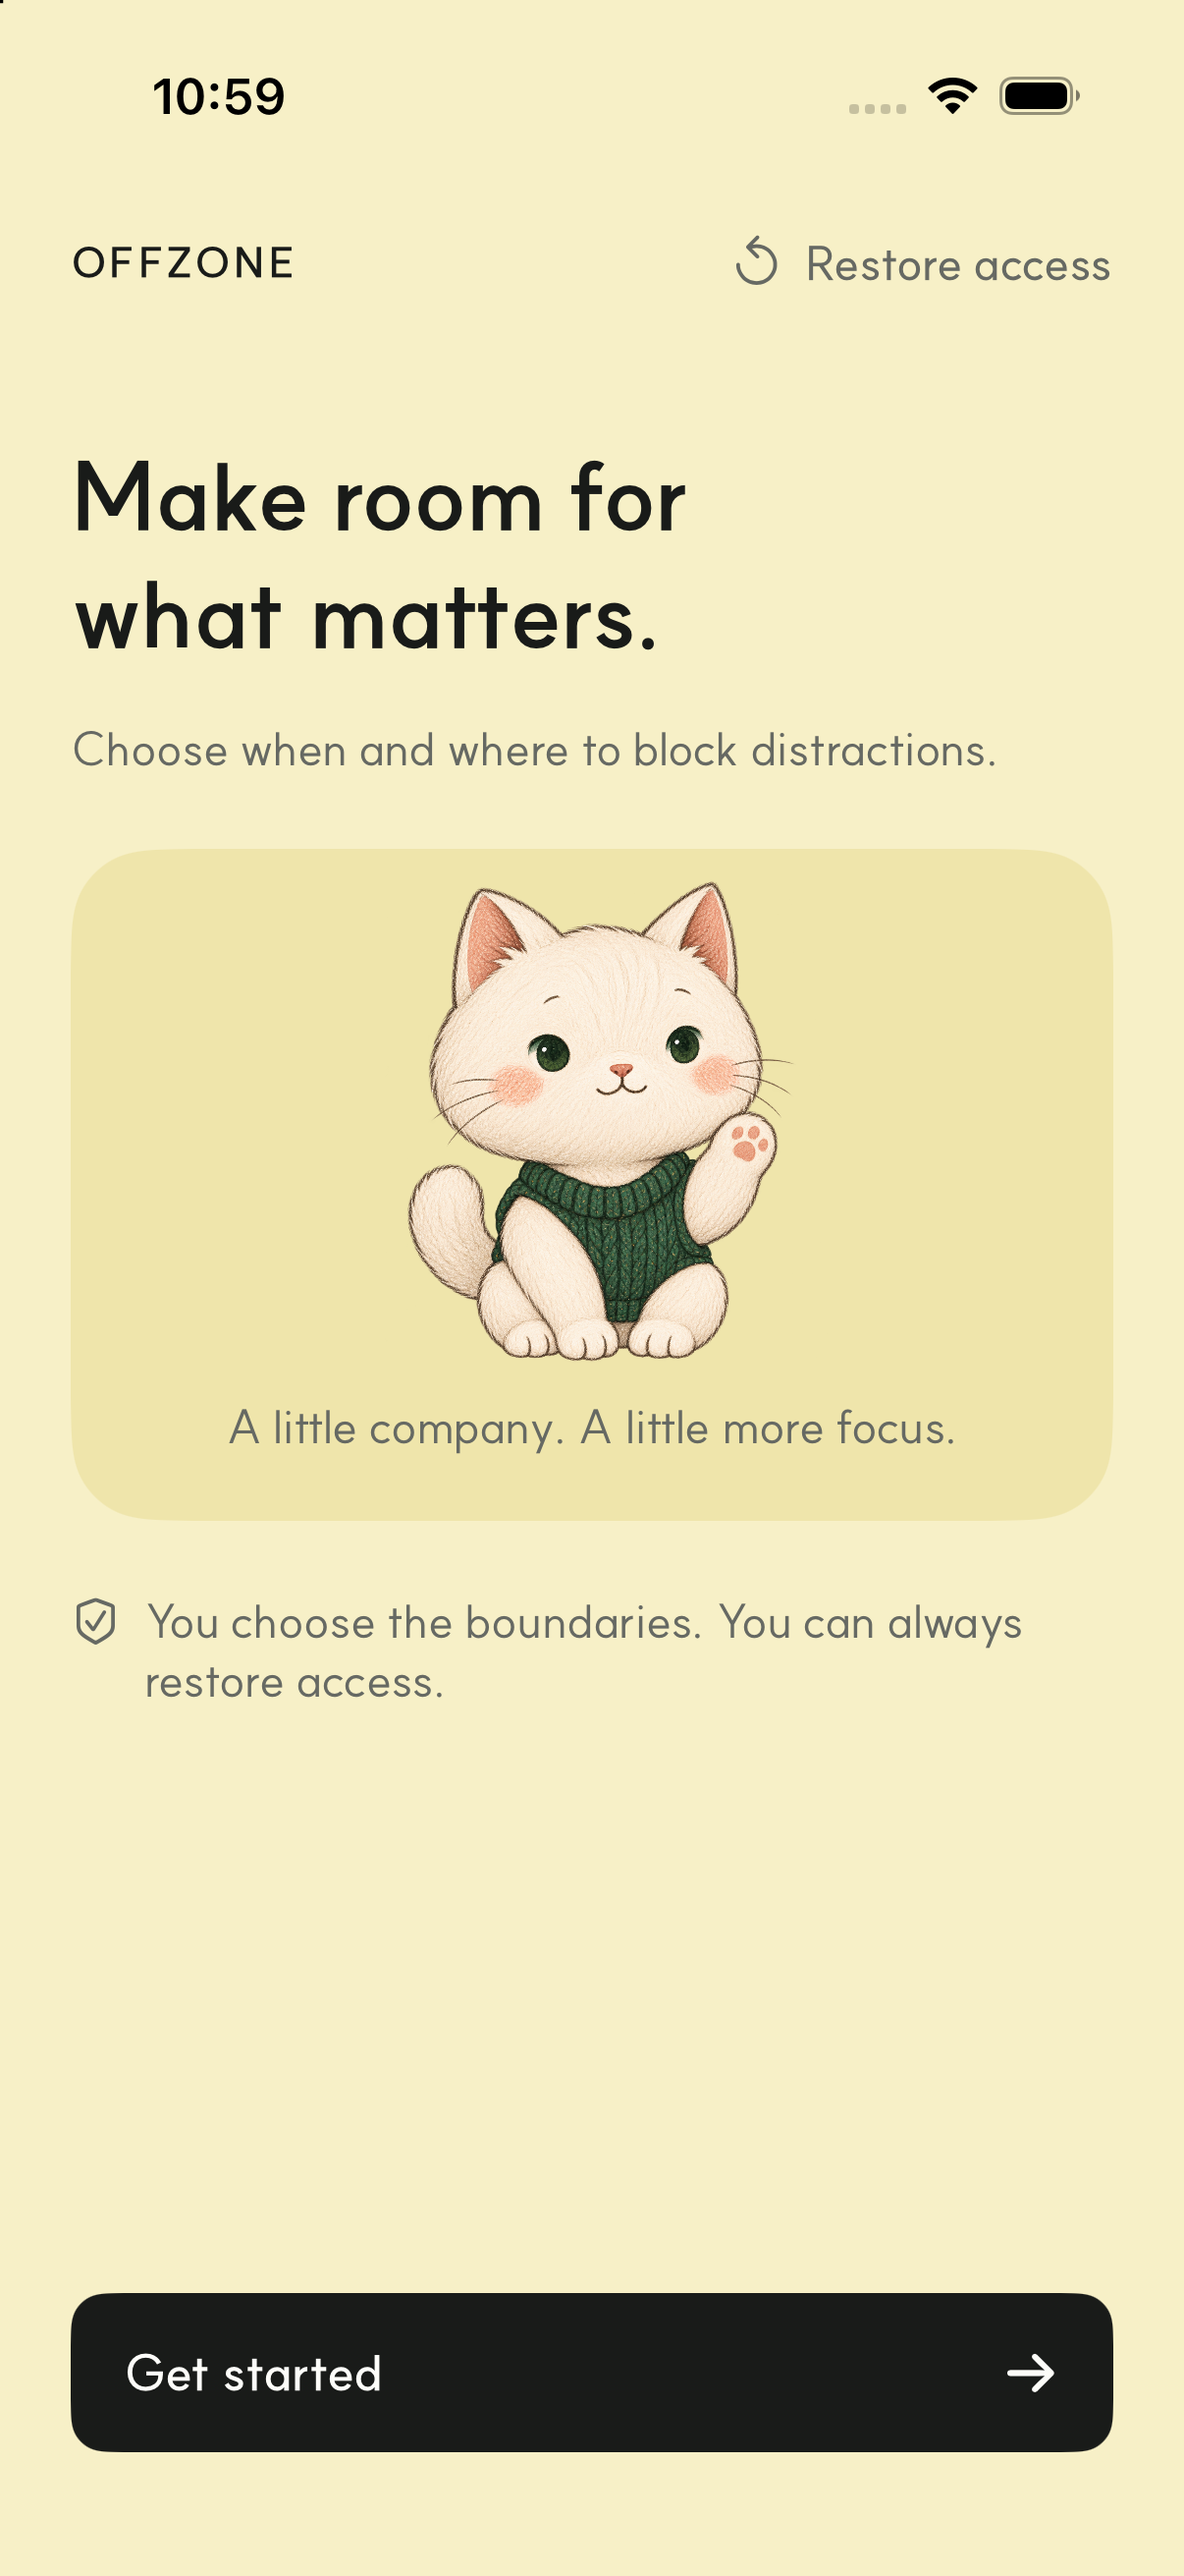
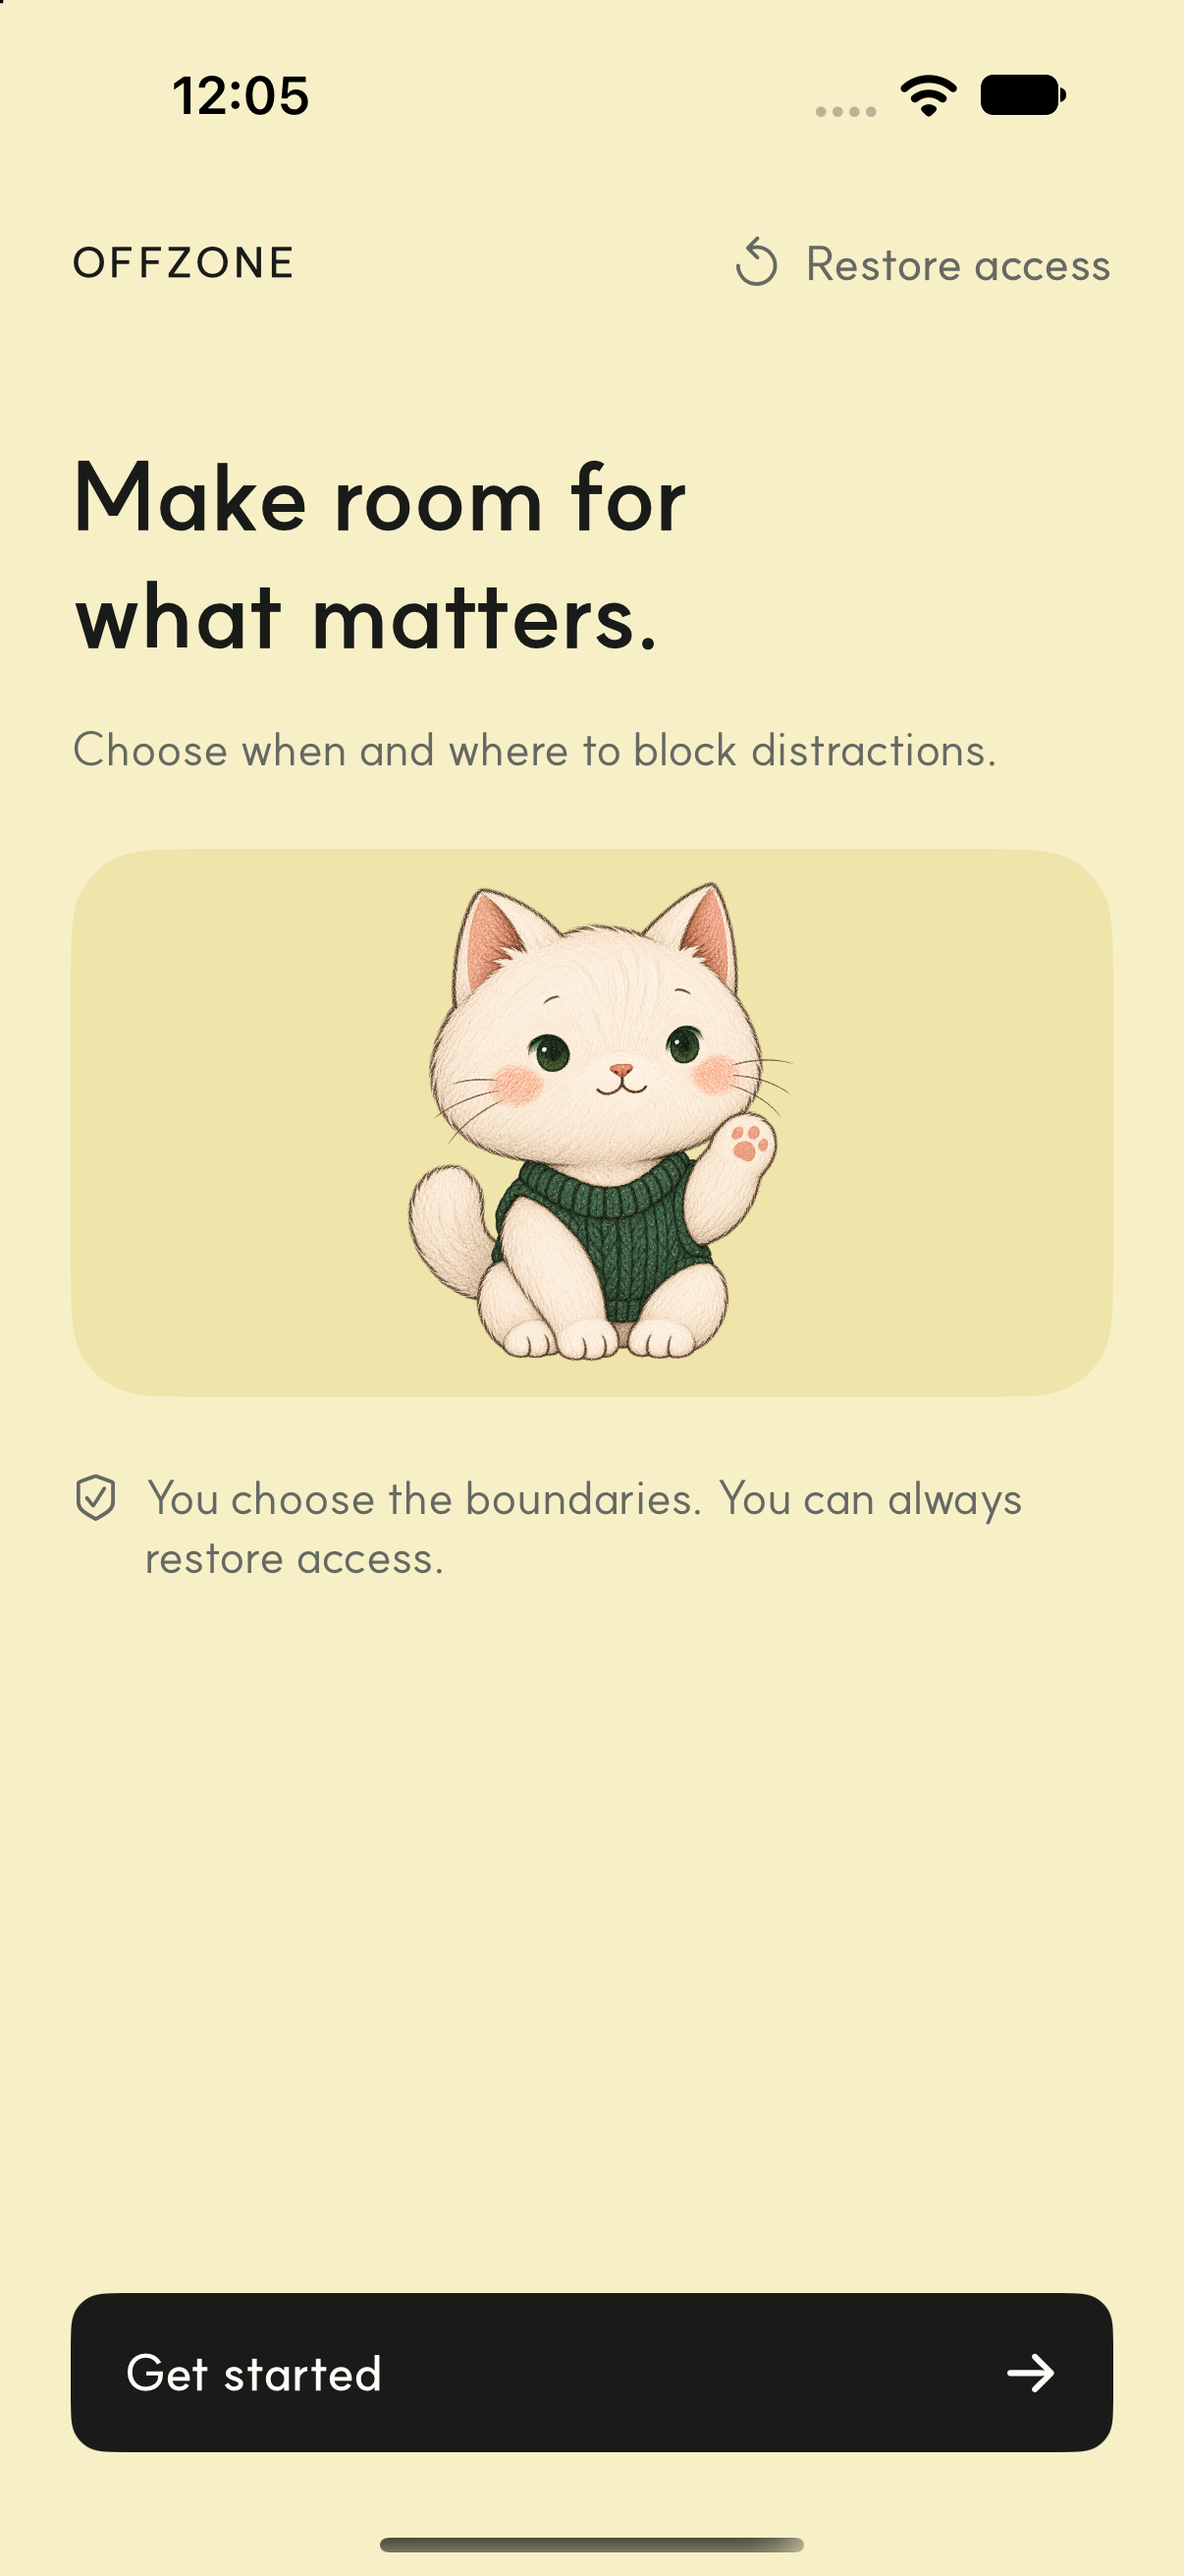
Remove Nook welcome tagline

diff --git a/RoomDNS/App/ContentView.swift b/RoomDNS/App/ContentView.swift
@@ -271,17 +271,11 @@ struct ContentView: View {
                         .font(.suit(.body))
                         .foregroundStyle(Color.roomInkSecondary)
                 }
-                VStack(spacing: 0) {
-                    RoomSpirit(state: .welcome, interactive: true)
-                        .frame(height: dynamicTypeSize.isAccessibilitySize ? 150 : 186)
-                    Text("A little company. A little more focus.")
-                        .font(.suit(.subheadline))
-                        .foregroundStyle(Color.roomInkSecondary)
-                        .padding(.horizontal, 16).padding(.bottom, 22)
-                }
-                .frame(maxWidth: .infinity)
-                .background(Color.roomButter)
-                .clipShape(RoundedRectangle(cornerRadius: 28))
+                RoomSpirit(state: .welcome, interactive: true)
+                    .frame(height: dynamicTypeSize.isAccessibilitySize ? 150 : 186)
+                    .frame(maxWidth: .infinity)
+                    .background(Color.roomButter)
+                    .clipShape(RoundedRectangle(cornerRadius: 28))
                 Label("You choose the boundaries. You can always restore access.", systemImage: "checkmark.shield")
                     .font(.suit(.subheadline))
                     .foregroundStyle(Color.roomInkSecondary)

diff --git a/DESIGN_BOARD.md b/DESIGN_BOARD.md
@@ -53,8 +53,6 @@ Android 에뮬레이터 [환영](.growth-design/mascots/2026-09-25-nook-native/s
 
 ### 소중한 일에 시간을
 
-키위와 조용히 함께, 조금 더 집중.
-
 ![실제 화면](.growth-design/2026-09-21T15-17-41-040Z-6e367d79/9faeecf3-2a07-4f8e-8514-f0b4123e1b43.png)
 
 ## 스토어 출력
